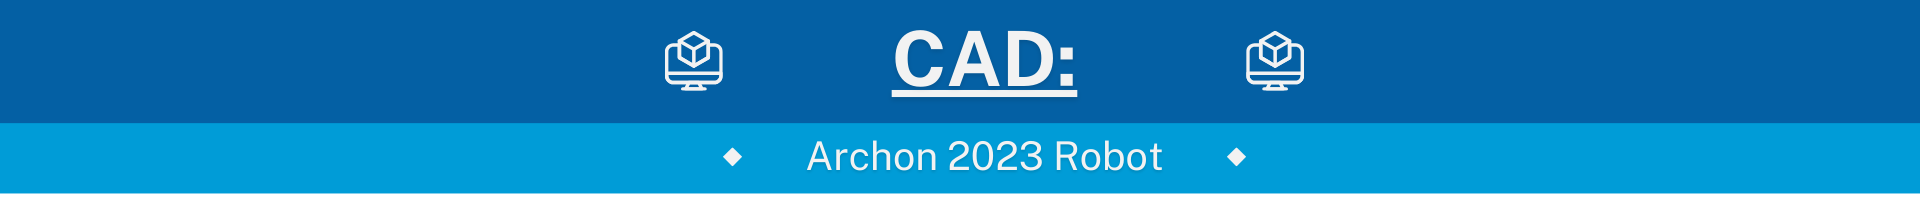
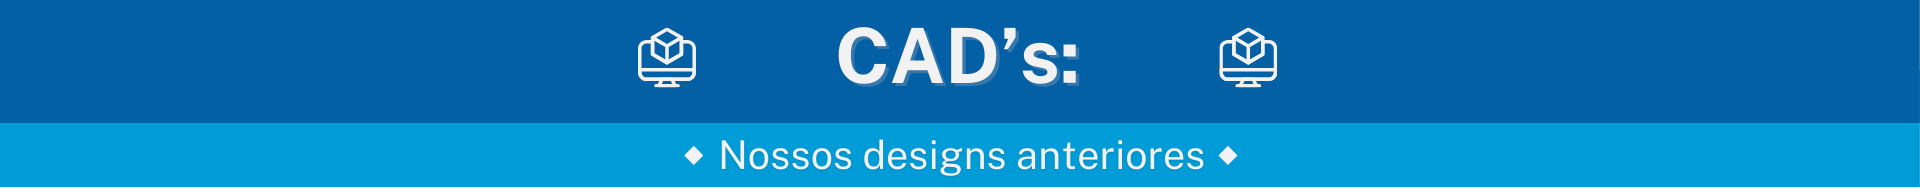
v3.0-unfinished

diff --git a/src/app/first/first.component.html b/src/app/first/first.component.html
@@ -75,7 +75,7 @@
 <div class="compbg">
     <img src="../assets/compbg.png" alt="Competição Bg" style="width:100%">
     <div class="frclogo"><img src="../assets/frclogo.png" alt="frclogo" style="width:40%"></div>
-    <div class="centered">A cada temporada, um novo desafio é lançado, sendo revelado no primeiro sábado de janeiro. A partir da data de revelação, os times têm um prazo de 6 semanas para construir um robô que cumpre as tarefas propostas. Para a construção do robô, todos os times utilizam o mesmo sistema de controle. Apesar de existirem regras que limitam o tamanho, peso, quantidade máxima de motores e atuadores, e alguns materiais que não podem ser utilizados, o time tem liberdade para construir o robô da maneira que achar mais apropriada, utilizando toda a criatividade. Após as 6 semanas de construção, ocorrem competições regionais em diversos países ao redor do mundo, como: Estados Unidos, Canadá, México, Israel, Turquia, entre outros. Os campeões de cada evento se classificam para a etapa mundial, que ocorre nos Estados Unidos.</div>
+    <div class="centered">A cada temporada, um novo desafio é lançado, sendo revelado no primeiro sábado de janeiro. A partir da data de revelação, os times têm um prazo de 6 semanas para construir um robô que cumpre as tarefas propostas. <br> <br> Para a construção do robô, todos os times utilizam o mesmo sistema de controle. Apesar de existirem regras que limitam o tamanho, peso, quantidade máxima de motores e atuadores, e alguns materiais que não podem ser utilizados, o time tem liberdade para construir o robô da maneira que achar mais apropriada, utilizando toda a criatividade. <br> <br> Após as 6 semanas de construção, ocorrem competições regionais em diversos países ao redor do mundo, como: Estados Unidos, Canadá, México, Israel, Turquia, entre outros. Os campeões de cada evento se classificam para a etapa mundial, que ocorre nos Estados Unidos.</div>
   </div>
 
 <div class="maisque">

diff --git a/src/app/home/home.component.html b/src/app/home/home.component.html
@@ -9,9 +9,7 @@
   >
     <mat-icon>menu</mat-icon>
   </button>
-  <a (click)="backHome()"> <img class="logo1" src="../assets/logo.png"> </a>
-  <span class="nav-item"></span>
-  <span class="nav-item"></span>
+  <a (click)="backHome()"> <img class="logo1" src="../assets/under.png" style="width:16%"> </a>
   <span class="nav-item"></span>
   <span class="nav-item"></span>
   <span class="nav-item"></span>
@@ -23,7 +21,7 @@
       <a href="https://www.instagram.com/undercontrol1156" target="_blank"><button mat-icon-button color="accent" aria-label="Instagram">
         <mat-icon svgIcon="instagram"></mat-icon>
       </button></a>
-      <a href="https://www.tiktok.com/@undercontrol1156" target="_blank"><button mat-icon-button color="warn" aria-label="Tiktok">
+      <a href="https://www.tiktok.com/@undercontrol1156" target="_blank"><button mat-icon-button color="primary" aria-label="Tiktok">
         <mat-icon>tiktok</mat-icon>
       </button></a>
     </div>    
@@ -107,7 +105,6 @@ src="https://www.youtube.com/embed/RU3XEFaCeSE?loop=1">
         <br>Ramal ➞ (51) 3584-8000 - Helpline ➞ (51) 9 9878-2313 - Email ➞ robotica.1156@gmail.com </p>
       </div>
       <img src="../assets/LogoFIRST.png" class="logof1" alt="logoFirst">
-      <img src="../assets/under.png" class="logof2" alt="logoUnder">
     <div class="copy">
       <p>© 2024 Under Control - 1156 | O Time de Robótica do Brasil. All Rights Reserved.</p>
     </div>

diff --git a/src/app/home/home.component.css b/src/app/home/home.component.css
@@ -1,5 +1,11 @@
-.logo1{
-  margin-top: 11px;
+.logo1{ 
+  transition: all .2s ease-in-out;
+  margin-top: 65px;
+  margin-left: 20px;
+  }
+  
+.logo1:hover { 
+  transform: scale(1.1); 
 }
 
 .top-nav{
@@ -8,17 +14,21 @@
     justify-content: space-evenly;
     background-color: white;
     font-size: medium;
+    margin-bottom: -4px;
+    margin-top: -4px;
     justify-items: center;
 }
 
 .social button,
 .social a {
   margin-right: 10px;
+  margin-top: 2px;
 }
 
 .menu-total{
   background-color: #0061a6;
-  justify-content: space-evenly;
+  justify-content: safe;
+  text-align: center;
 }
 
 .mat-button{
@@ -41,7 +51,7 @@
 }
 
 .nav-item{
-  color: #0061a6
+  color: #0061a6;
 }
 
 body{
@@ -173,7 +183,7 @@ body{
 }
 
 .patroimg{
-  margin-left: 22px;
+  text-align: center;
 }
 
 .buttonpat{
@@ -228,7 +238,8 @@ body{
 
 .logof1{
   width: 7%;
-  padding-bottom: 25px;
+  margin-right: 20px;
+  padding-bottom: 10px;
   align-items: center;
 }
 

diff --git a/src/app/cad/cad.component.html b/src/app/cad/cad.component.html
@@ -67,11 +67,11 @@
   <div class="fotocad">
     <img src="../assets/fotocad.png" alt="Foto Cad" style="width:70%">
 <div class="buttoncad">
-  <button class="buttoncad1" mat-raised-button color="primary">CAD</button>
+  <button class="buttoncad1" mat-raised-button color="primary"><a href="https://www.firstinspires.org/robotics/frc/awards" target="_blank" style="text-decoration:none">CAD Archon</a></button>
 </div>
 <img class="divider" src="../assets/devdiv.png" alt="divider" style="width:55%">
   </div>
-  <h2 class="robtxt">Robôs dos anos anteriores (2003 - 2022)</h2>
+  <h2 class="robtxt">Detalhes com imagem sobre cada robô da Under:</h2>
   <div class="buttoncadc"><a href="robos"><button class="buttoncad2" mat-stroked-button>Nossos Robôs</button></a></div>
 </body>
 

diff --git a/src/app/first/first.component.css b/src/app/first/first.component.css
@@ -105,7 +105,7 @@
 
 .frclogo{
   position: absolute;
-  margin-top: -420px;
+  margin-top: -440px;
   margin-left: 230px;
   text-align: center;
   align-items: center;
@@ -114,13 +114,13 @@
 .centered{
   position: absolute;
   margin-top: 345px;
-  margin-left: -25px;
-  margin-right: -25px;
+  margin-left: -40px;
+  margin-right: -40px;
   text-align: center;
   top: 50%;
   left: 50%;
   transform: translate(-50%, -50%);
-  color: white;
+  color: whitesmoke;
   font-size: 19px;
   font-family: "Arimo", sans-serif;
   font-optical-sizing: auto;
@@ -144,7 +144,7 @@
   top: 50%;
   left: 50%;
   transform: translate(-50%, -50%);
-  color: white;
+  color: whitesmoke;
   font-size: 20px;
   font-family: "Arimo", sans-serif;
   font-optical-sizing: auto;

diff --git a/src/app/development/development.component.html b/src/app/development/development.component.html
@@ -125,12 +125,6 @@
         src="https://www.youtube.com/embed/b1ABrXfH2to">
       </iframe>
       <div class="devdiv"><img src="../assets/devdiv.png" alt="Divider" style="width:60%"></div>
-      <mat-card class="sup"><mat-icon> <div class="supicon">settings_phone</div></mat-icon>Suporte: 55 51 9984-21977 <br>
-        <mat-divider class="divsup"></mat-divider><div class="txtwpp"></div>
-        <button class="wppicon" mat-icon-button color="accent" aria-label="Whatsapp">
-          <mat-icon svgIcon="wpp" class="wppicon"></mat-icon></button>Whatsapp: 55 51 9984-21977
-          <mat-chip color="accent" selected>Já disponível!</mat-chip></mat-card>
-</body>
 
 <div class="footer">
     <div class="column3">

diff --git a/src/app/cad/cad.component.css b/src/app/cad/cad.component.css
@@ -79,7 +79,32 @@
 }
 
 .buttoncad{
-  color: #0061a6;
+  color: white;
+  text-decoration: none;
+}
+
+a:link {
+  color: white;
+  background-color: transparent;
+  text-decoration: none;
+}
+
+a:visited {
+  color: white;
+  background-color: transparent;
+  text-decoration: none;
+}
+
+a:hover {
+  color: gainsboro;
+  background-color: transparent;
+  text-decoration: underline;
+}
+
+a:active {
+  color: white;
+  background-color: transparent;
+  text-decoration: underline;
 }
 
 .divider{
@@ -111,6 +136,7 @@
   text-align: center;
 }
 
+
 body{
   background-color: white;
   background-repeat: no-repeat;
@@ -136,8 +162,6 @@ body{
       font-display: swap;
   }
   
-  
-
 
 
   .footer {

diff --git a/src/app/robos/robos.component.html b/src/app/robos/robos.component.html
@@ -62,9 +62,7 @@
 <body>
 <div class="robostitle">
     <img src="../assets/robostitle.png" alt="Title Robôs" style="width:65%">
-    <div class="column1">
-    <div class="roboslist1"><img src="../assets/viper.png" style="width:100%"></div>
-    <p class="texto1"><li>temptemptemptemptemptemptemp</li></p></div>
+    <div class="roboslist"><img src="../assets/viper.png" style="width:70%"></div>
     <div class="roboslist"><img src="../assets/archonsiege.png" style="width:70%"></div>
     <div class="roboslist"><img src="../assets/corsair.png" style="width:70%"></div>
     <div class="roboslist"><img src="../assets/valhydra.png" style="width:70%"></div>

diff --git a/src/app/development/development.component.css b/src/app/development/development.component.css
@@ -55,7 +55,8 @@ body{
 
 .devdiv{
   text-align: center;
-  margin-bottom: -20px;
+  margin-top: 10px;
+  margin-bottom: 30px;
 }
 
 .ytv{
@@ -95,13 +96,16 @@ body{
   color: #1f487e;
   margin-left: 260px;
   margin-right: 260px;
-  padding-bottom: 20px;
-  padding-top: 50px;
+  margin-bottom: -15px;
   justify-content: center;
 }
 
 .supicon{
   margin-left: 8px;
+}
+
+.instadiv{
+  margin-left: -35px;
 }
 
 .divsup{
@@ -112,6 +116,10 @@ body{
 .wppicon{
   margin-top: -5px;
   margin-right: -8px;
+}
+
+.contate{
+  text-align: center;
 }
 
 .txtwpp{
